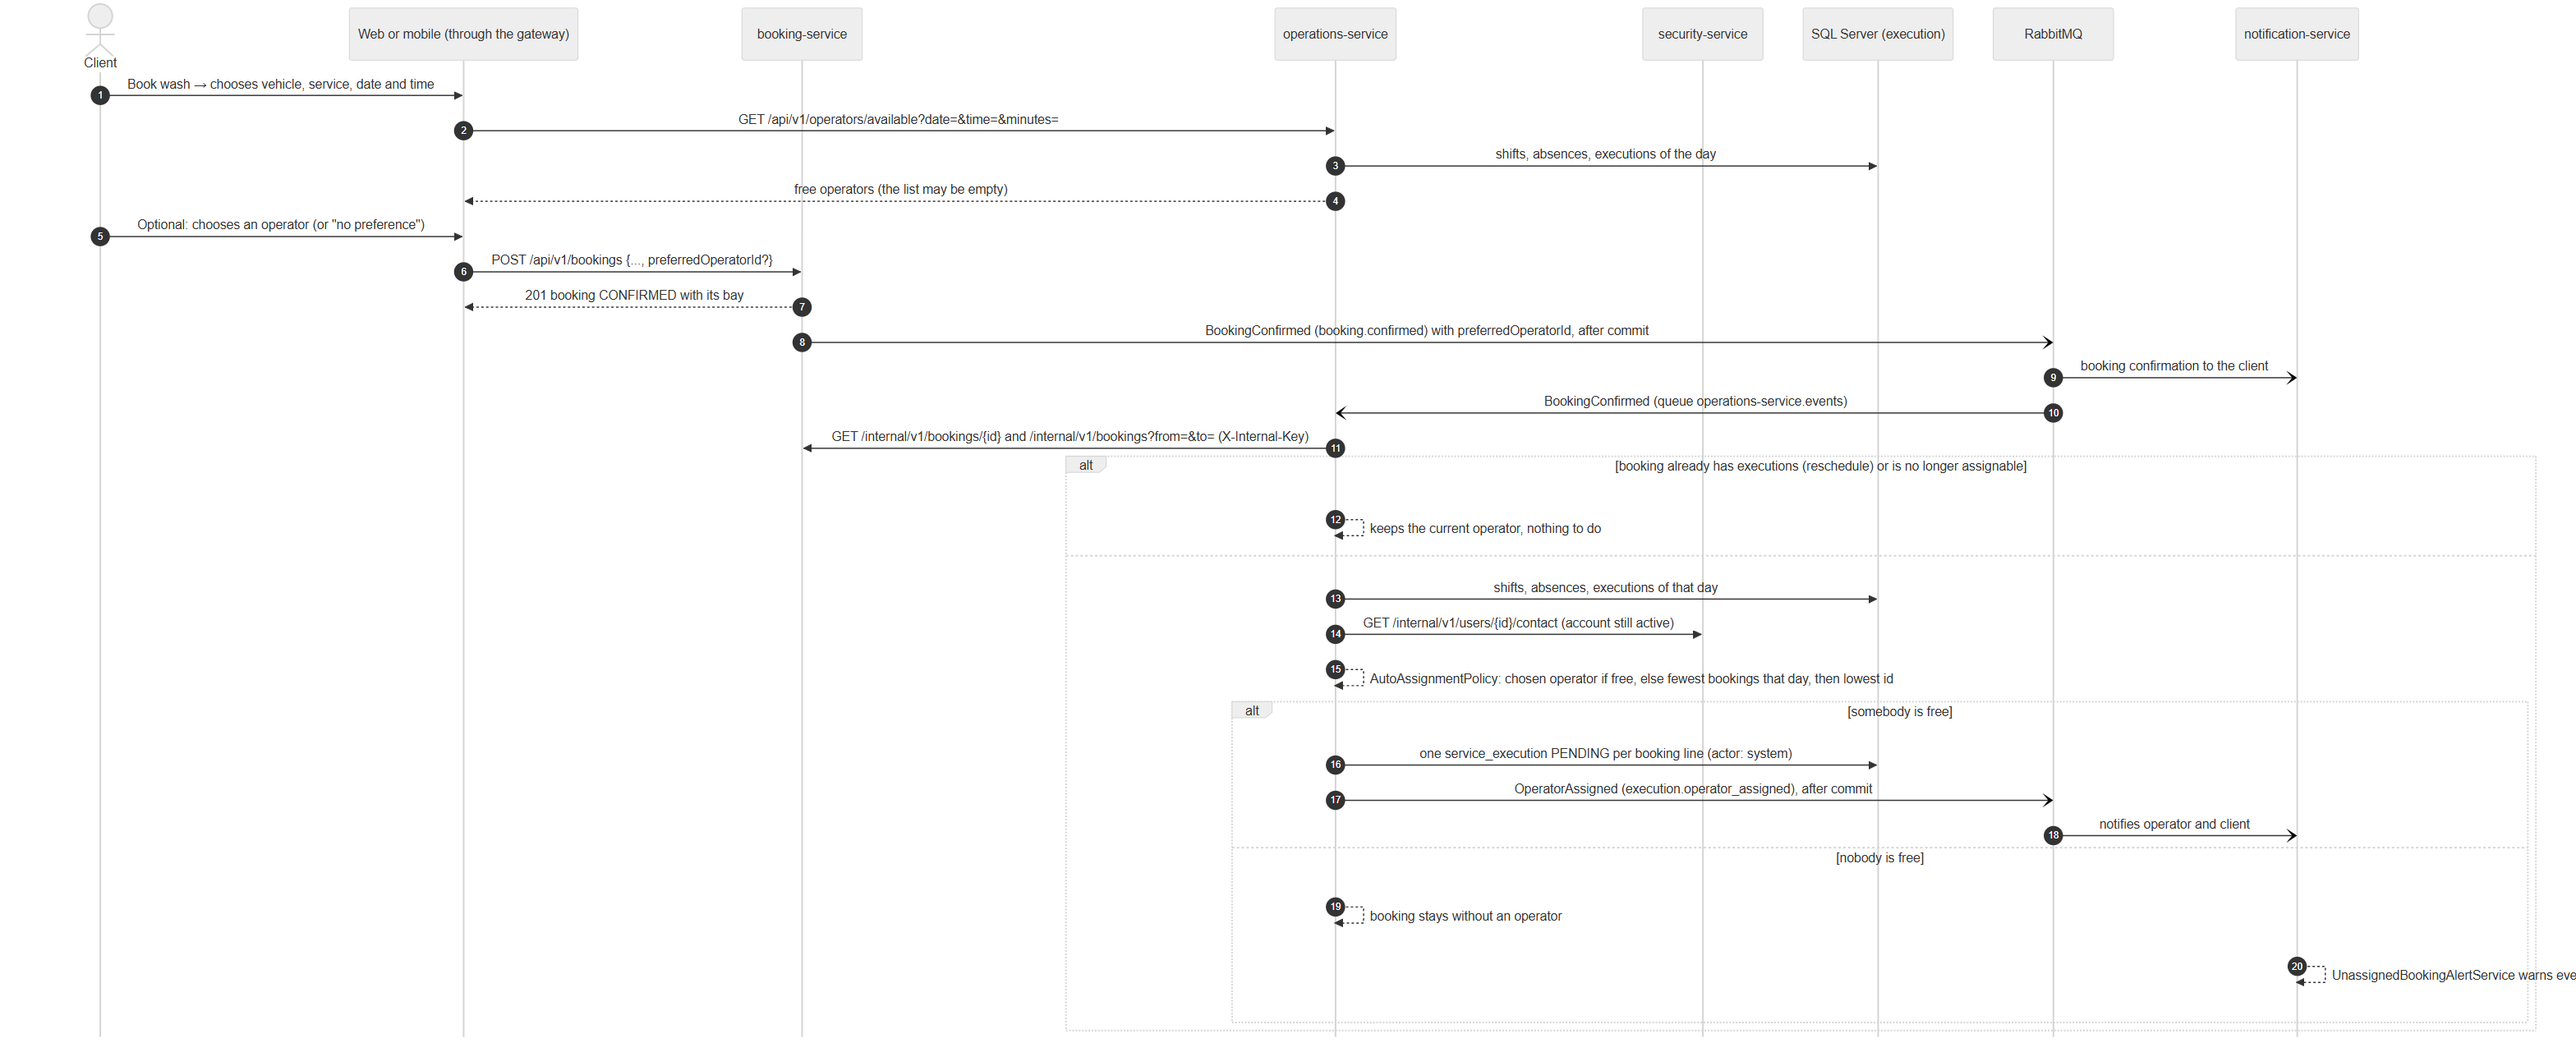
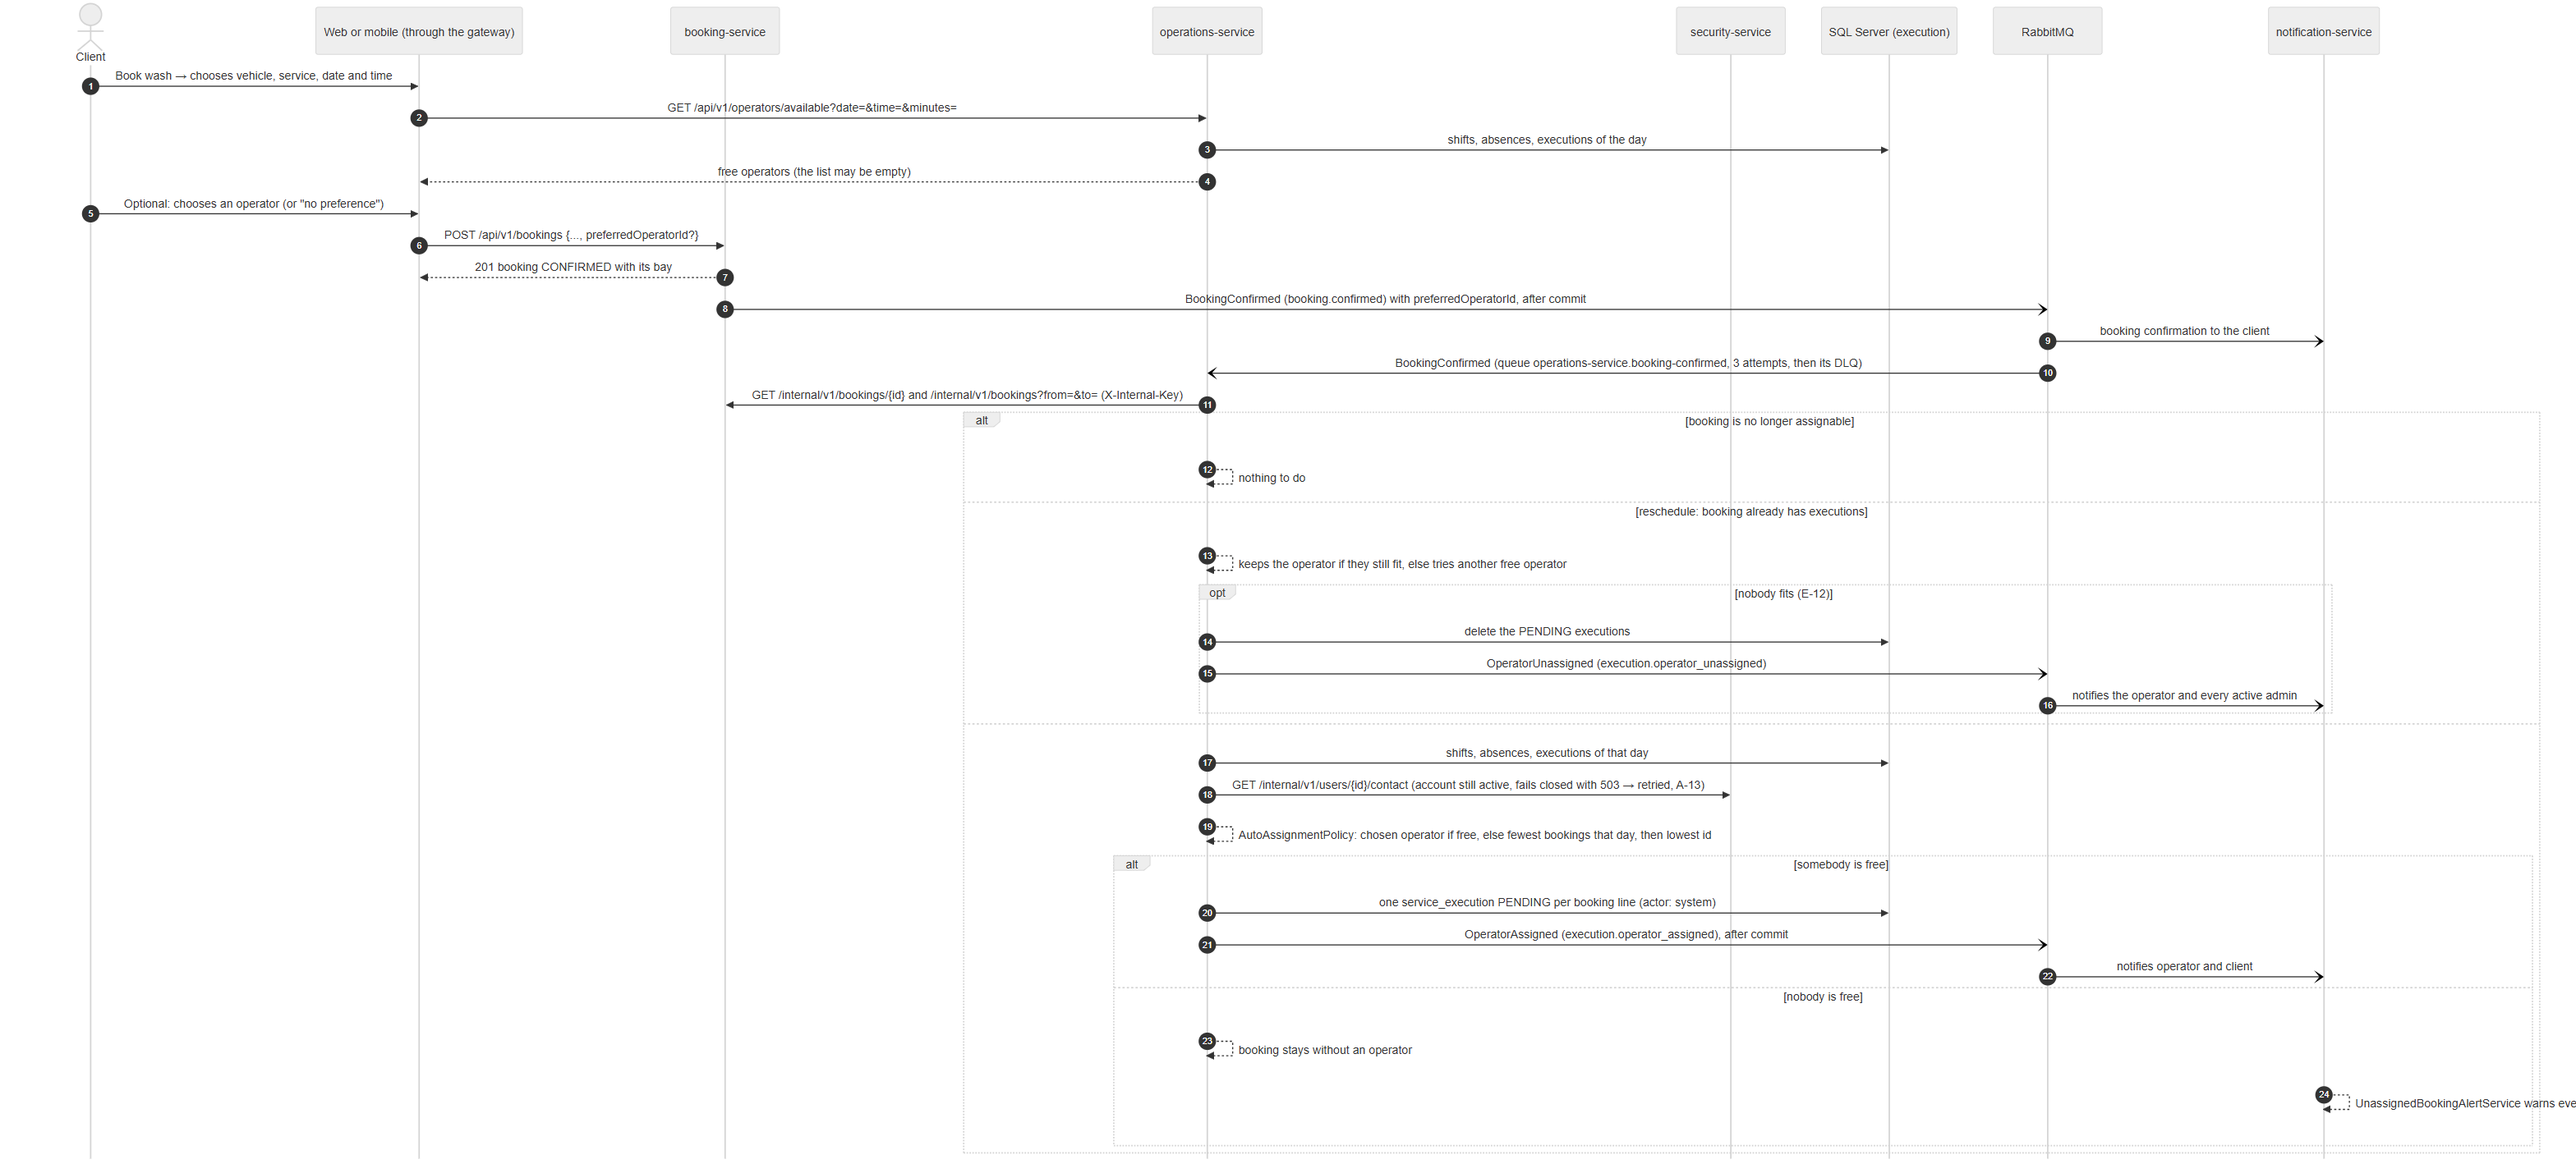
fix(uml): remove the semicolons that broke the automatic assignment sequence

diff --git a/08-uml/diagrams/source/seq-auto-assignment.md b/08-uml/diagrams/source/seq-auto-assignment.md
@@ -24,12 +24,12 @@ sequenceDiagram
     B-->>W: 201 booking CONFIRMED with its bay
     B-)MQ: BookingConfirmed (booking.confirmed) with preferredOperatorId, after commit
     MQ-)N: booking confirmation to the client
-    MQ-)OP: BookingConfirmed (queue operations-service.booking-confirmed; 3 attempts, then its DLQ)
+    MQ-)OP: BookingConfirmed (queue operations-service.booking-confirmed, 3 attempts, then its DLQ)
     OP->>B: GET /internal/v1/bookings/{id} and /internal/v1/bookings?from=&to= (X-Internal-Key)
     alt booking is no longer assignable
         OP-->>OP: nothing to do
     else reschedule: booking already has executions
-        OP-->>OP: keeps the operator if they still fit; else tries another free operator
+        OP-->>OP: keeps the operator if they still fit, else tries another free operator
         opt nobody fits (E-12)
             OP->>DB: delete the PENDING executions
             OP-)MQ: OperatorUnassigned (execution.operator_unassigned)
@@ -37,7 +37,7 @@ sequenceDiagram
         end
     else
         OP->>DB: shifts, absences, executions of that day
-        OP->>S: GET /internal/v1/users/{id}/contact (account still active; fails closed with 503 → retried, A-13)
+        OP->>S: GET /internal/v1/users/{id}/contact (account still active, fails closed with 503 → retried, A-13)
         OP-->>OP: AutoAssignmentPolicy: chosen operator if free, else fewest bookings that day, then lowest id
         alt somebody is free
             OP->>DB: one service_execution PENDING per booking line (actor: system)
